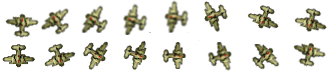
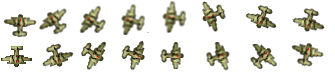
medium grey animation

diff --git a/src/AnimatorHolder.cpp b/src/AnimatorHolder.cpp
@@ -506,6 +506,17 @@ void triggerDeathStarAnimator(){
     assert(animator);
     animator->start(Game::getGameTime());
 }
+
+void triggerMedGreyDoubleAnimator(){
+	static int nameId = 0;
+	string name = "MedGreyDoubleEngAnimator" + std::to_string(nameId); 
+	nameId++;
+
+	MovingPathAnimator* animator = (MovingPathAnimator*)AnimatorHolder::getAnimatorHolder()->getAnimator(name);
+	assert(animator);
+	animator->start(Game::getGameTime());
+}
+
 void AnimatorHolder::startTimeTickAnimators(){
     
     //SuperAce
@@ -527,6 +538,7 @@ void AnimatorHolder::startTimeTickAnimators(){
 	//medium plane
 	TimerTickAnimator::startTimeTickAnimator("medGreenDoubleEngTickAnimation", triggerMedGreenDoubleEngAnimator);
 	TimerTickAnimator::startTimeTickAnimator("medGreenSingleEngTickAnimation", triggerMedGreenSingleEngAnimator);
+	TimerTickAnimator::startTimeTickAnimator("medGreyDoubleEngTickAnimation", triggerMedGreyDoubleAnimator);
 
     //big plane
     TimerTickAnimator::startTimeTickAnimator("bigGreenIntroTickAnimation", triggerBigGreenIntroTickAnimators );
@@ -623,11 +635,40 @@ void AnimatorHolder::updateAllGreyPlaneAnimations(){
 			grayPlaneAnimator= (MovingPathAnimator*) (*it);
             updateGreyJetAnimation(grayPlaneAnimator);
         }
+
+
+
+
         it = it2;
     }
     
 }
 
+void updateGreyMedPlaneAnimation(MovingPathAnimator* grayMedPlaneAnimator){
+	SuperAce* superAce = (SuperAce*)SpritesHolder::getSpritesHolder()->getSprite(SUPER_ACE, "SuperAce0");
+
+	MovingPathAnimation* grayMedPlaneAnimation = grayMedPlaneAnimator->getMovingPathAnimation();
+
+	assert(grayMedPlaneAnimator);
+	assert(grayMedPlaneAnimation);
+	if (!grayMedPlaneAnimator->isAlive()){
+		return;
+	}
+
+	int grayMedPlanePositionOnY = grayMedPlaneAnimator->getSprite()->getDstRect().y;
+	int SuperAcePositionOnY = superAce->getDstRect().y;
+
+
+	if (grayMedPlanePositionOnY > SuperAcePositionOnY - 400){
+
+		//stop
+		((EnemyFighter*)grayMedPlaneAnimator->getSprite())->setEnemyFireEnable(false);
+		grayMedPlaneAnimator->setState(ANIMATOR_FINISHED);// _state = ANIMATOR_FINISHED;
+		grayMedPlaneAnimator->stop();
+
+
+	}
+}
 void updateGreyPlaneAnimation(MovingPathAnimator* grayJetAnimator){
     //assert(0);
     
@@ -707,17 +748,7 @@ void updateGreyPlaneAnimation(MovingPathAnimator* grayJetAnimator){
         grayJetAnimator->setState(ANIMATOR_FINISHED);// _state = ANIMATOR_FINISHED;
         grayJetAnimator->stop();
         
-        /*if (grayJetAnimation->getPath().front()._dy > 0){
-            path._dy = -5;
-            path._dx = -5;
-            path._frame = 1;
-            
-            
-            std::list<PathEntry> p;
-            p.push_front(path);
-            grayJetAnimation->setPath(p);
-            
-        }*/
+      
     }
 }
 
@@ -735,14 +766,7 @@ void  updateGreyJetAnimation(MovingPathAnimator* grayJetAnimator){
     
     MovingPathAnimation* grayJetAnimation = grayJetAnimator->getMovingPathAnimation();
     assert(grayJetAnimation);
-    //const PathEntry path;
-    //path._dx = 1;
-    //path._dy = 0;
-   /* path._frame = grayJetAnimation->getPath().front()._frame;
-    path._delay = grayJetAnimation->getPath().front()._delay;
-    path._visibility = true;
-    */
-    //int superAcePositionOnX = superAce->getDstRect().x;
+
     int grayJetPositionOnX = grayJetAnimator->getSprite()->getDstRect().x;
 	int superAcePositionOnX = superAce->getDstRect().x;
     
@@ -779,28 +803,7 @@ void  updateGreyJetAnimation(MovingPathAnimator* grayJetAnimator){
 	}
     
     
-	/*
-    if (grayJetPositionOnY > WIN_HEIGHT - 100){
-        if (grayJetAnimation->getPath().front()._dy > 0){
-            grayJetAnimation->changeDxDy(-17, 0);
-            grayJetAnimator->getSprite()->getCurrFilm()->setDegrees(90);
-            
-        }
-    }
-    if (grayJetPositionOnX < 100){
-        if (grayJetAnimation->getPath().front()._dx < 0){
-            grayJetAnimation->changeDxDy(0, -17);
-            grayJetAnimator->getSprite()->getCurrFilm()->setDegrees(180);
-            
-        }
-    }
-    if (grayJetPositionOnY < 100){
-        if (grayJetAnimation->getPath().front()._dy < 0){
-            grayJetAnimation->changeDxDy(17, 0);
-            grayJetAnimator->getSprite()->getCurrFilm()->setDegrees(270);
-            
-        }
-    }*/
+	
 }
 
 

diff --git a/src/MovingPathAnimator.cpp b/src/MovingPathAnimator.cpp
@@ -49,6 +49,16 @@ void MovingPathAnimator::chooseCallBack(string id){
     if (found == 0)
         str = new string("Chain4"+ id);
     
+	//med grey
+	found = id.find("MedGreyDoubleEngAnimator");
+	if (found == 0)
+		str = new string("Chain1" + id);
+	found = id.find("Chain1MedGreyDoubleEngAnimator");
+	if (found == 0)
+		str = new string("Chain2" + id);
+
+
+
     if(str!=nullptr)
         setOnFinished(nextAnimator,(void*)str);
 }
